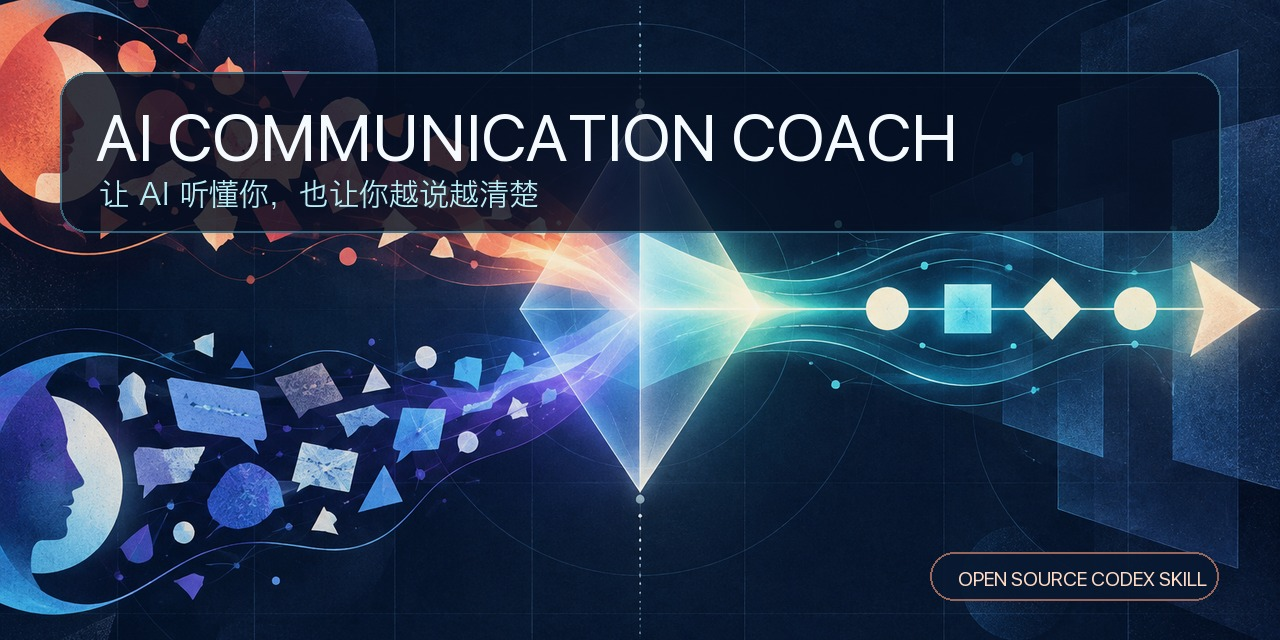
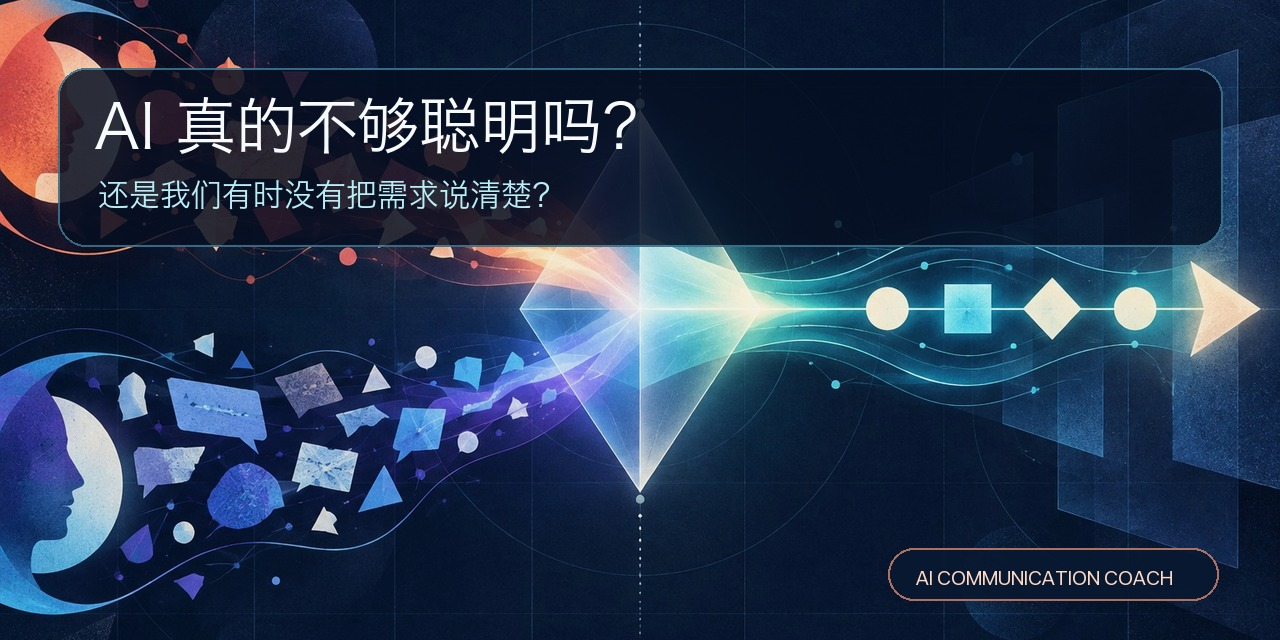
docs: lead with real AI communication failures

Changed region(s): [[0.0312, 0.0938, 0.9688, 0.4062], [0.6875, 0.8438, 0.9375, 0.9375]]

diff --git a/README.md b/README.md
@@ -5,8 +5,12 @@
 <h1 align="center">AI Communication Coach</h1>
 
 <p align="center">
-  <strong>让 AI 听懂你，也让你越说越清楚。</strong><br>
-  在真实任务中校准需求、逻辑与表达，同时继续把事情做完。
+  <strong>总觉得 AI 很笨？</strong><br>
+  有时候是模型能力不够，有时候是我们和 AI 从一开始就没在理解同一件事。
+</p>
+
+<p align="center">
+  一个在真实任务中找到误解、完成对齐，也帮助人逐渐把话说清楚的 Codex Skill。
 </p>
 
 <p align="center">
@@ -25,41 +29,60 @@
   <a href="CONTRIBUTING.md">参与贡献</a>
 </p>
 
+## ✦ 你是不是也遇到过这些时刻？
+
+- 你说“帮我优化一下”，AI 把你原本不想动的结构全部重做了。
+- 你说“先看看这个方案”，AI 直接开始修改文件。
+- 你补充了一段背景，AI 却把每一句背景都当成硬性要求。
+- 你已经说清楚了范围，AI 还是不断问“要不要继续”“这样可以吗”。
+- 结果不对时，你只能再解释一遍；改到第三轮，才发现双方一开始理解的就不是同一件事。
+
+于是我们很容易得出一个结论：**这个 AI 怎么这么笨？**
+
+## ◈ AI 不够聪明，还是我们没有把话说好？
+
+两种情况都会发生。
+
+模型可能缺知识、缺工具、错误推断，也可能面对本来就没有确定答案的外部事实。与此同时，人类的日常语言本来就依赖上下文：“优化一下”“和之前一样”“先看看”“做得高级一点”，对熟悉我们的同事可能足够，对 AI 却可能对应几条完全不同的执行路线。
+
+真正需要解决的是：**这次偏差最早发生在哪里，下一步怎样用最低的沟通成本把它修回来？**
+
+> [!IMPORTANT]
+> 这个 Skill 不会预设“都是用户没说清楚”。它会区分用户表达、缺少共享背景、AI 推断或执行错误、模型与工具限制，以及外部事实本身的不确定性。只有表达确实改变了执行方向时，才给用户反馈。
+
+## ⟡ 同一句需求，结果可以完全不同
+
+<table>
+<tr>
+<th width="50%">没有及时对齐</th>
+<th width="50%">使用 AI Communication Coach</th>
+</tr>
+<tr>
+<td valign="top">
+<strong>你：</strong>帮我把这个页面优化一下，感觉还不够高级。<br><br>
+<strong>AI：</strong>好的，我来全面优化。<br><br>
+<em>随后改了信息结构、交互、文案和移动端。</em><br><br>
+<strong>你：</strong>我只是想调整桌面端视觉，怎么全改了？
+</td>
+<td valign="top">
+<strong>你：</strong>帮我把这个页面优化一下，感觉还不够高级。<br><br>
+<strong>AI：</strong>这里的“高级”可能指视觉润色，也可能指结构重做。结合你之前确定的桌面端范围，我理解为保留信息结构，先调整字体、层级、留白和色彩。我按这个方向直接修改。<br><br>
+<em>任务继续推进，不重复确认已经明确的信息。</em>
+</td>
+</tr>
+</table>
+
+完成后，它还会留下一个可以迁移到下一次沟通的反馈：
+
+> “高级”表达了评价，但没有提供可观察标准。把它落到视觉层级、字体、留白、色彩或参考对象上，AI 更容易稳定复现你的判断。
+
+这套机制同时服务两个结果：
+
+1. **当前任务少走弯路**：在真正会改变结果的位置完成对齐，然后继续执行。
+2. **人的表达逐渐变准**：从真实对话中看见自己的目标、假设、因果、范围和完成标准是怎样影响结果的。
+
 > [!TIP]
-> 这不是一套要求你背诵的 Prompt 模板。它是一套持续工作的对话策略：信息够用时直接执行，能够安全推断时说明理解后继续，只有结果真正分叉时才问一次。
-
-## ✦ 它解决什么
-
-很多 AI 协作失败，并不是模型不会做，而是双方没有在正确的位置对齐：目标和手段混在一起、背景被当成要求、偏好被当成事实，或者 AI 把自己的推断错误归咎于用户。
-
-`ai-communication-coach` 同时做两件事：
-
-1. **让当前任务更准确地完成**：识别真正会改变结果的歧义、约束和缺失信息。
-2. **让下一次沟通自然变好**：基于本次表达中的具体证据，给出简短、可迁移的反馈。
-
-| 常见协作方式 | AI Communication Coach |
-| --- | --- |
-| 遇到模糊词就连续追问 | 按执行影响区分明确、可推断和分叉 |
-| 为了省事直接猜测关键范围 | 结果会分叉时展示差异、推荐一项、只问一次 |
-| 把所有问题都归结为用户没说清楚 | 区分用户表述、AI 错误、工具限制与外部不确定性 |
-| 给完“更好的 Prompt”就结束 | 在真实任务中继续执行，并观察后续表达是否改善 |
-| 把日常沟通变成课程或练习 | 不布置练习，不要求用户重写，不阻断工作 |
-
-## ◈ 30 秒看懂
-
-用户说：
-
-> 帮我把这个页面优化一下，感觉还不够高级。
-
-普通 AI 可能直接改，也可能抛出一长串问题。这个 Skill 会先判断：
-
-- 如果上下文已经明确“只调整桌面端视觉”，它会陈述理解并直接开工。
-- 如果“高级”可能同时指视觉润色和结构重做，而两者会产生完全不同的交付，它会说明范围差异、推荐一个方向，只请求一次选择。
-- 如果用户正在探索“什么才算高级”，它会先帮助建立判断维度，不会逼用户过早定方案。
-
-它还会给出一句真正有用的表达反馈：
-
-> “高级”表达了评价，但没有提供可观察标准。更准确的说法可以落到视觉层级、字体、留白、色彩或参考对象上。
+> 这不是一套要求你背诵的 Prompt 模板，也不要求你先学会“正确提问”才能使用 AI。学习发生在下一次真实协作里，而不是额外的练习中。
 
 ## ⟡ 它怎样工作
 
@@ -230,6 +253,7 @@ ai-communication-coach/
 - [x] GitHub Actions 包结构验证
 - [ ] 目标模型完整行为评测记录
 - [ ] 多模型一致性对比
+- [ ] 按当前 OpenAI 规范封装为 Skill-only Plugin
 - [ ] 英文完整文档
 
 ## ♡ 参与贡献
@@ -237,6 +261,12 @@ ai-communication-coach/
 欢迎提交真实但已去除隐私的失败对话、边界案例、理论来源或更精确的判断规则。行为修改应同时增加或更新对应评测场景。
 
 请先阅读 [CONTRIBUTING.md](CONTRIBUTING.md)，也可以前往 [Discussions](https://github.com/LeooooLiu/ai-communication-coach/discussions) 分享使用反馈。
+
+## ☆ 如果它帮你少返工一次
+
+- 给仓库一个 **Star**，以后可以快速找到，也能帮助更多遇到同类问题的人看到它。
+- 分享一段已经去除隐私的“使用前 / 使用后”对话，这会比泛泛的好评更有价值。
+- 如果它问得太多、纠正错了对象或打断了任务，请提交 [Behavior report](https://github.com/LeooooLiu/ai-communication-coach/issues/new?template=behavior-report.yml)。这些失败案例会直接进入后续评测。
 
 ## License
 

diff --git a/CHANGELOG.md b/CHANGELOG.md
@@ -2,6 +2,14 @@
 
 All notable changes to this project are documented here.
 
+## [Unreleased]
+
+### Changed
+
+- Reframed the GitHub introduction around familiar AI communication failures and a before-and-after dialogue.
+- Updated the social preview artwork with an experience-led question.
+- Added an explicit path for stars, anonymized examples, and behavior reports.
+
 ## [0.1.0] - 2026-09-27
 
 ### Added
